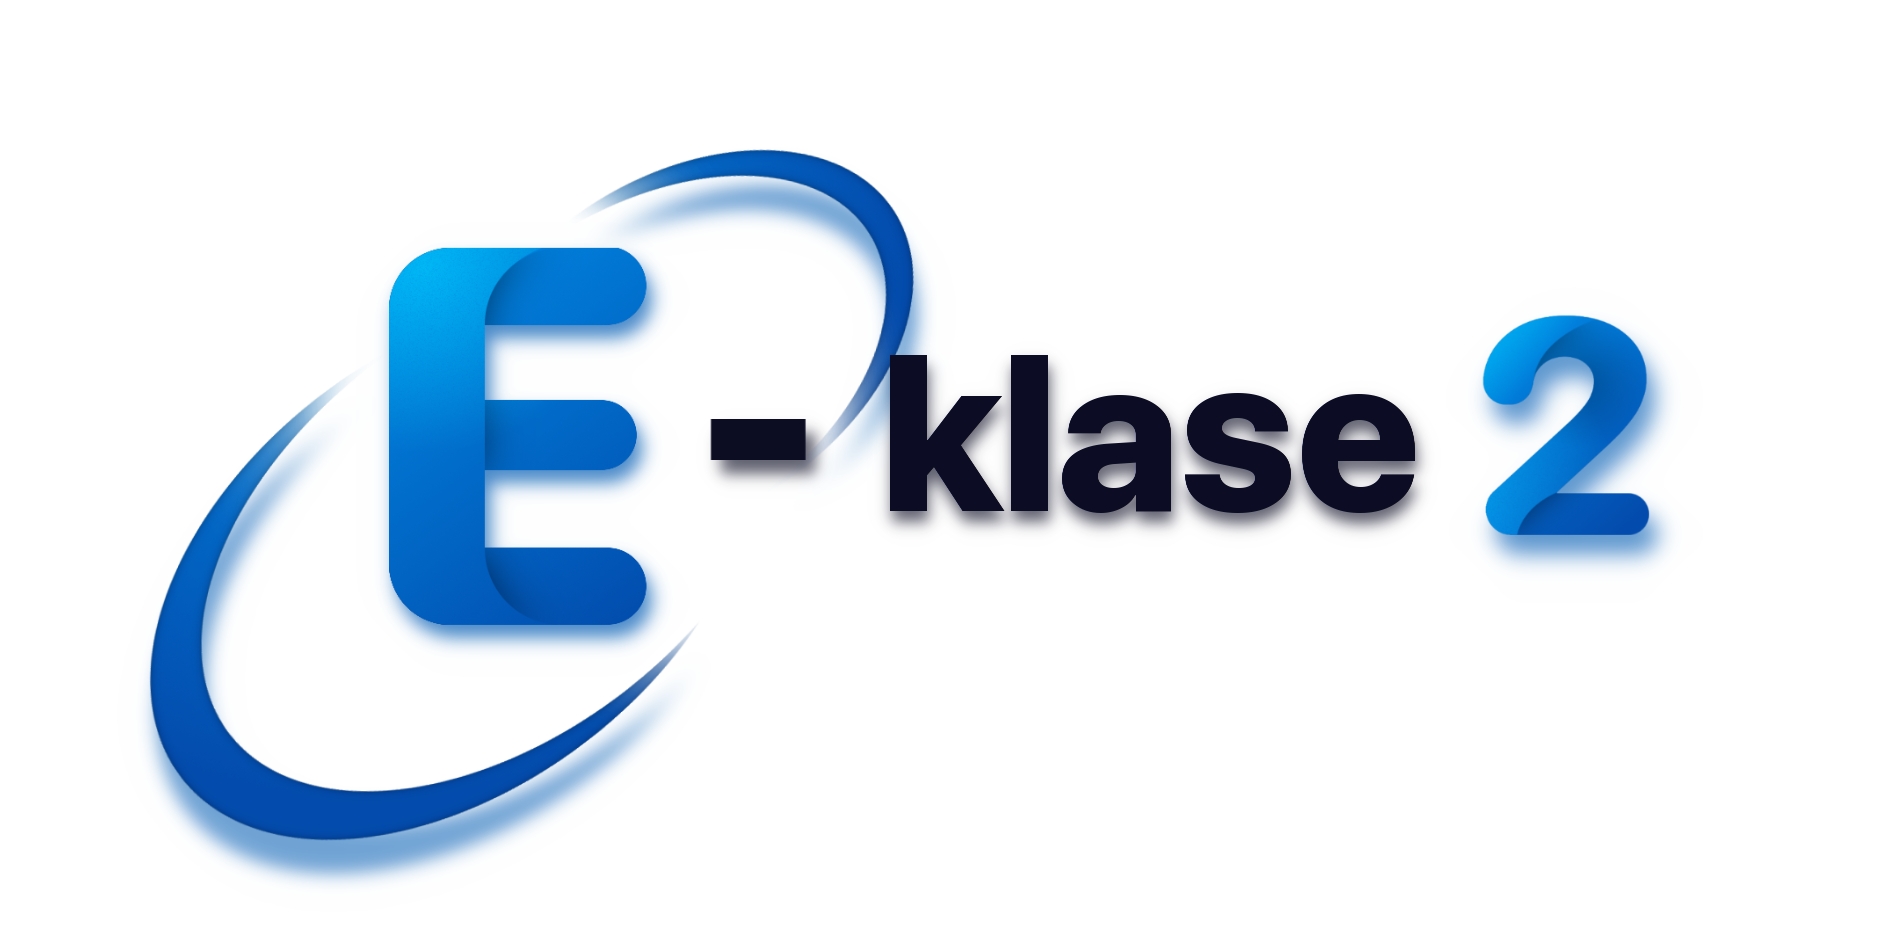
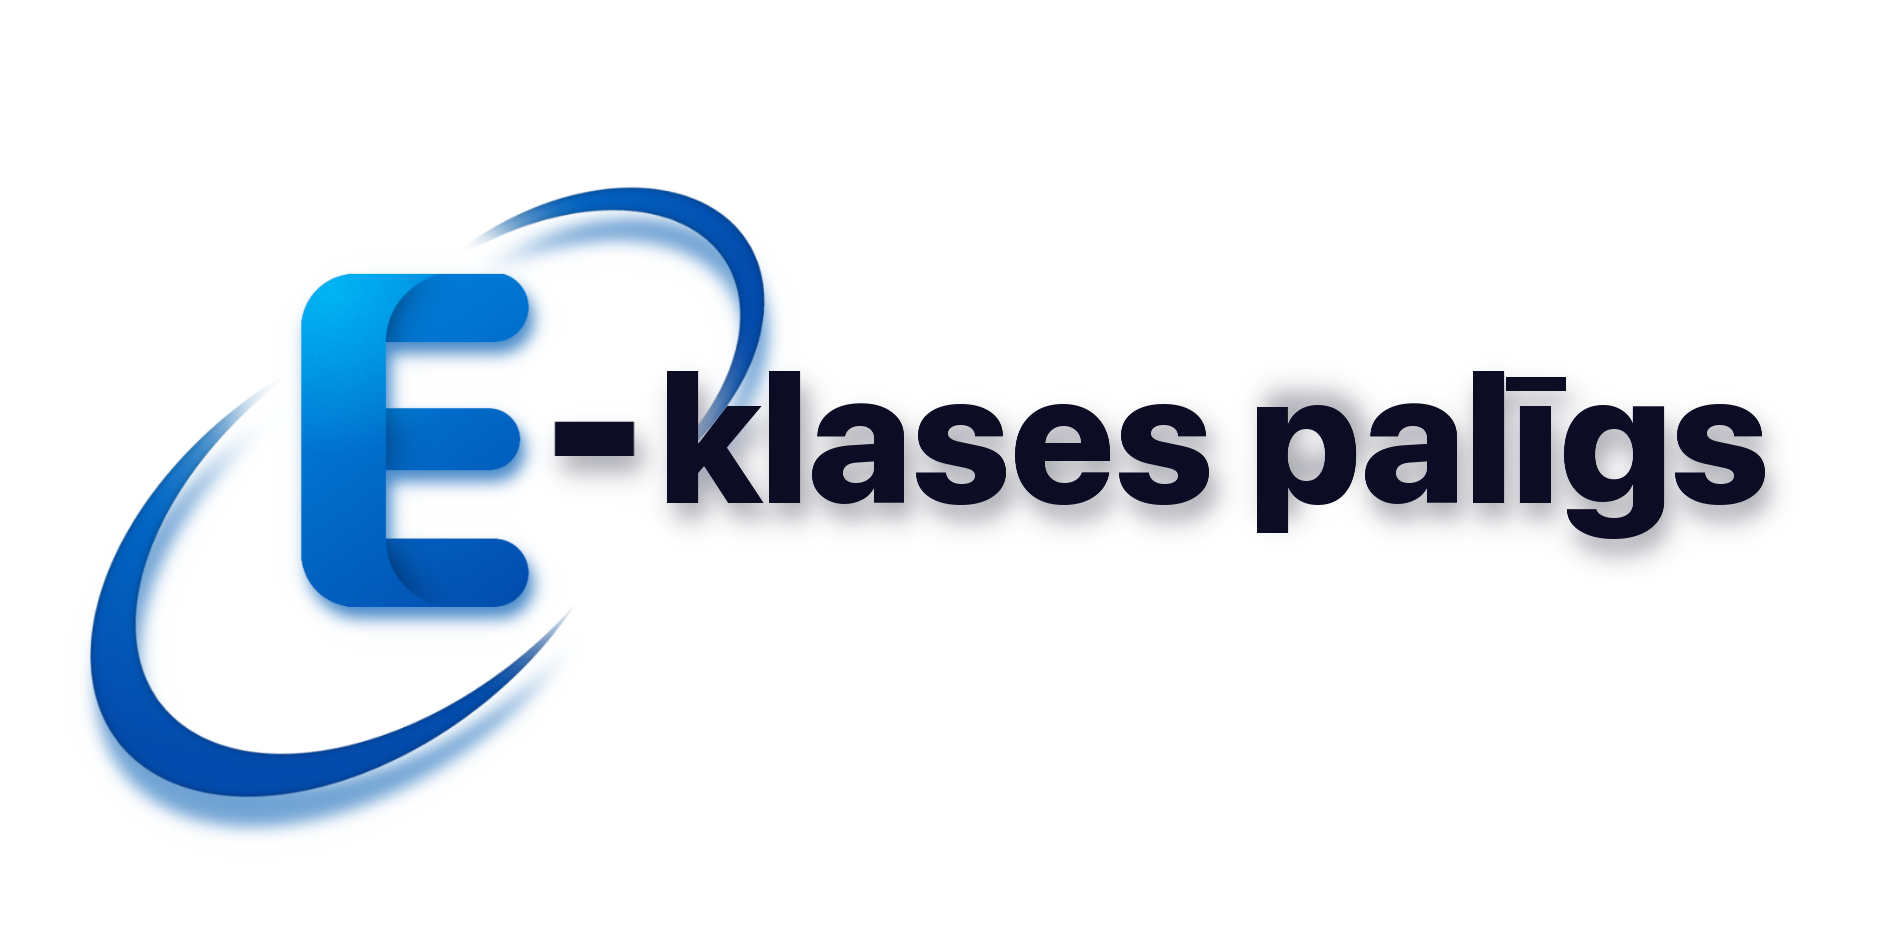
:bento: Complete rebranding, ready for 0.1 release

Changed region(s): [[0.0308, 0.153, 0.9559, 0.9483]]

diff --git a/src/popup/index.html b/src/popup/index.html
@@ -4,11 +4,11 @@
 		<meta charset="UTF-8" />
 		<meta name="viewport" content="width=device-width, initial-scale=1.0" />
 		<link rel="stylesheet" href="style.css" />
-		<title>E-klase 2</title>
+		<title>E-klases Palīgs</title>
 	</head>
 	<body>
 		<div class="header">
-			<img src="../res/title-light.png" alt="E-klase 2">
+			<img src="../res/title-light.png" alt="E-klases Palīgs">
 		</div>
 		
 		<div class="notice" id="notice">
@@ -17,7 +17,7 @@
 
 		<div class="list">
 			<button id="whats-new" class="whats-new">
-				Kas jauns E-klasē 2
+				Kas jauns E-klases Palīgam
 				<svg xmlns="http://www.w3.org/2000/svg" width="16" height="16" fill="currentColor" class="bi bi-arrow-right" viewBox="0 0 16 16">
 					<path fill-rule="evenodd" d="M1 8a.5.5 0 0 1 .5-.5h11.793l-3.147-3.146a.5.5 0 0 1 .708-.708l4 4a.5.5 0 0 1 0 .708l-4 4a.5.5 0 0 1-.708-.708L13.293 8.5H1.5A.5.5 0 0 1 1 8z" />
 				</svg>
@@ -92,7 +92,7 @@
 
 			<div class="footer">
 				<p>© Dāvis Lektauers, 2021</p>
-				<a href="https://github.com/d-avis/e-klases-modernais-dizains">GitHub</a>
+				<a href="https://github.com/d-avis/e-klases-paligs">GitHub</a>
 			</div>
 		</div>
 

diff --git a/src/popup/index.js b/src/popup/index.js
@@ -43,8 +43,9 @@ darkThemeBtn.onclick = () => {
 
 let profilePictureElement = document.getElementById(`profile-picture`);
 chrome.storage.local.get(`profilePicture`, (res) => {
-	if (res.profilePicture === null) {
-
+	if (res.profilePicture === undefined) {
+		// The default profile picture
[1 lines of base64/hex data omitted]
 	} else {
 		profilePictureElement.src = res.profilePicture;
 	}

diff --git a/src/popup/changelog.html b/src/popup/changelog.html
@@ -4,12 +4,12 @@
 		<meta charset="UTF-8" />
 		<meta name="viewport" content="width=device-width, initial-scale=1.0" />
 		<link rel="stylesheet" href="style.css" />
-		<title>Kas jauns - E-klase 2</title>
+		<title>Kas jauns - E-klases Palīgs</title>
 	</head>
 
 	<body>
 		<div class="center">
-			<h1 style="font-size: 2rem;">E-klase 2 0.1-BETA</h1>
+			<h1 style="font-size: 2rem;">E-klases Palīgs 0.1-BETA</h1>
 			<p>Šī ir pati pirmā versija, tāpēc nav jaunumu. Nākotnes versijās šeit būs apskatāms viss, kas mainījies kopš iepriekšējās versijas.</p>
 		</div>
 

diff --git a/src/popup/style.css b/src/popup/style.css
@@ -272,7 +272,7 @@ a:hover::after {
 	background: #303035;
 }
 .theme-dark .theme-header-detail {
-	background: #35beff;
+	background: #0088e3;
 }
 .theme-dark .theme-header-account {
 	background: #46454e;
@@ -289,7 +289,7 @@ a:hover::after {
 	background: #e0e0e0;
 }
 .theme-light .theme-header-detail {
-	background: #35beff;
+	background: #0088e3;
 }
 .theme-light .theme-header-account {
 	background: #b4b4b4;
@@ -432,6 +432,7 @@ textarea {
 	margin: auto;
 	margin-bottom: .5rem;
 	border-radius: 50%;
+	background: #ffffff;
 }
 .profile-picture-btn {
 	display: block;

diff --git a/src/popup/uploadProfilePicture.html b/src/popup/uploadProfilePicture.html
@@ -4,7 +4,7 @@
 		<meta charset="UTF-8" />
 		<meta name="viewport" content="width=device-width, initial-scale=1.0" />
 		<link rel="stylesheet" href="style.css" />
-		<title>Augšupielādēt profila bildi - E-klase 2</title>
+		<title>Augšupielādēt profila bildi - E-klases Palīgs</title>
 	</head>
 	<body>
 		<div class="center">

diff --git a/src/extensionBranding.js b/src/extensionBranding.js
@@ -60,6 +60,6 @@ if (document.querySelector(`.copyright`) !== null) {
 		document.querySelector(`.copyright`).innerHTML =
 			`&copy; SIA “Izglītības sistēmas” 2004-${new Date().getFullYear()}
 			<br />
-			Aktivizēta <i>E-klase 2</i>`;
+			Aktivizēts <i>E-klases Palīgs</i>`;
 	}
 }

diff --git a/README.md b/README.md
@@ -1,8 +1,8 @@
 <h1 align="center">
 	<sub>
-		<img src="https://github.com/d-avis/e-klase-2/raw/master/assets/icon-bg.png" height="45" width="60">
+		<img src="https://github.com/d-avis/e-klases-paligs/raw/master/assets/icon-bg.png" height="45" width="45">
 	</sub>
-	E-klase 2
+	E-klases Palīgs
 </h1>
 <p align="center">
 	Moderns dizains un vairāk funkcijas E-klasei 👍
@@ -14,19 +14,19 @@
 ***
 
 <h1 align="center">
-	🎉 Nolādēšana
+	🎉 Ieinstalēšana
 </h1>
 <p align="center">
 	<table align="center">
 		<tr>
 			<th>
 				<p align="center">
-					<img alt="Firefox" src="https://upload.wikimedia.org/wikipedia/commons/a/a0/Firefox_logo%2C_2019.svg" width="45">
+					<img alt="Chrome" src="https://upload.wikimedia.org/wikipedia/commons/a/a5/Google_Chrome_icon_%28September_2014%29.svg" width="45">
 				</p>
 			</th>
 			<th>
 				<p align="center">
-					<img alt="Chrome" src="https://upload.wikimedia.org/wikipedia/commons/a/a5/Google_Chrome_icon_%28September_2014%29.svg" width="45">
+					<img alt="Firefox" src="https://upload.wikimedia.org/wikipedia/commons/a/a0/Firefox_logo%2C_2019.svg" width="45">
 				</p>
 			</th>
 			<th>
@@ -43,12 +43,12 @@
 		<tr>
 			<td>
 				<p align="center">
-					Nav vēl pieejams
+					Pieejams drīzumā!
 				</p>
 			</td>
 			<td>
 				<p align="center">
-					Nav vēl pieejams
+					Pieejams drīzumā!
 				</p>
 			</td>
 			<td>
@@ -58,7 +58,7 @@
 			</td>
 			<td>
 				<p align="center">
-					<img alt="😂😂😂" src="https://raw.githubusercontent.com/d-avis/e-klase-2/master/assets/readme/laughing.png" width="120">
+					<img alt="😂😂😂" src="https://raw.githubusercontent.com/d-avis/e-klases-paligs/master/assets/readme/laughing.png" width="120">
 				</p>
 			</td>
 		</tr>
@@ -68,13 +68,13 @@
 ***
 
 <p align="center">
-	<img src="https://github.com/d-avis/e-klase-2/raw/master/assets/readme/1.png" alt="Skaists, moderns dizains" />
+	<img src="https://github.com/d-avis/e-klases-paligs/raw/master/assets/readme/1.png" alt="Skaists, moderns dizains" />
 </p>
 <p align="center">
-	<img src="https://github.com/d-avis/e-klase-2/raw/master/assets/readme/2.png" alt="Tumšais režīms" />
+	<img src="https://github.com/d-avis/e-klases-paligs/raw/master/assets/readme/2.png" alt="Tumšais režīms" />
 </p>
 <p align="center">
-	<img src="https://github.com/d-avis/e-klase-2/raw/master/assets/readme/3.png" alt="Reklāmu bloķēšana" />
+	<img src="https://github.com/d-avis/e-klases-paligs/raw/master/assets/readme/3.png" alt="Reklāmu bloķēšana" />
 </p>
 
 # 🧩 Citas funkcijas
@@ -97,14 +97,12 @@
 
 # 📱 Izmantošana uz telefona
 
-E-klases mājaslapa uz telefona izskatās tāpat un ir tikpat izmantojama, cik aplikācija. E-klasi 2 var ielādēt arī uz mobilajiem internetpārlūkiem, tāpēc, izmantojot E-klasi internetpārlūkā, E-klasi 2 var izmantot arī uz telefona.
+Google Chrome un gandrīz visi uz tā balstītie internetpārlūki uz telefona neatbalsta paplašinājumus, līdz ar to E-klases Palīgs nav tajos lietojams. Vienīgais veids, kā E-klases Palīgu var izmantot uz telefona, ir caur Firefox Browser.
 
-Ja tu vēlies izmantot E-klasi 2 kā aplikāciju, vislabākā izvēle ir PWA (Progressive Web App). Izmantojot šo internetpārlūku funkciju, saites var "ieinstalēt" uz telefona, un tad tās darbosies gandrīz tā, it kā būtu pavisam parastas aplikācijas. E-klase 2 pievieno šo PWA funkcionalitāti E-klasei, tāpēc tu to vari izmantot.
-
-Ieinstalēt E-klasi kā PWA var caur internetpārlūku. Gan uz Chrome, gan uz Firefox Mobile var ielādēt PWA nospiežot uz trīs aplīšiem un tad spiežot uz "Add to Home screen" vai "Install".
+Uz Firefox Browser E-klases Palīgs strādā tikpat labi, cik pati E-klases aplikācija, ja ne labāk.
 
 ***
 
-License: GPLv3. To var apskatīt [šeit](https://github.com/d-avis/e-klase-2/tree/master/LICENSE).
+License: GPLv3. To var apskatīt [šeit](https://github.com/d-avis/e-klases-paligs/tree/master/LICENSE).
 
 © Dāvis Lektauers, 2021
